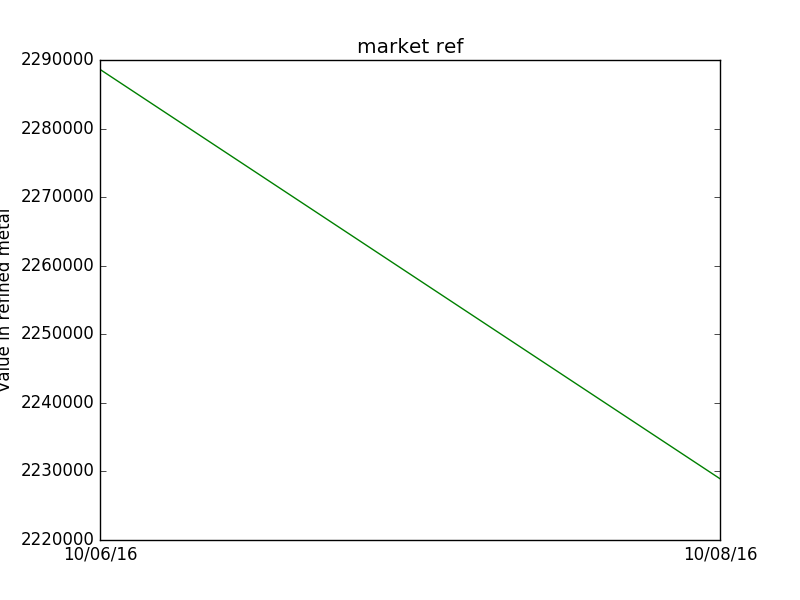
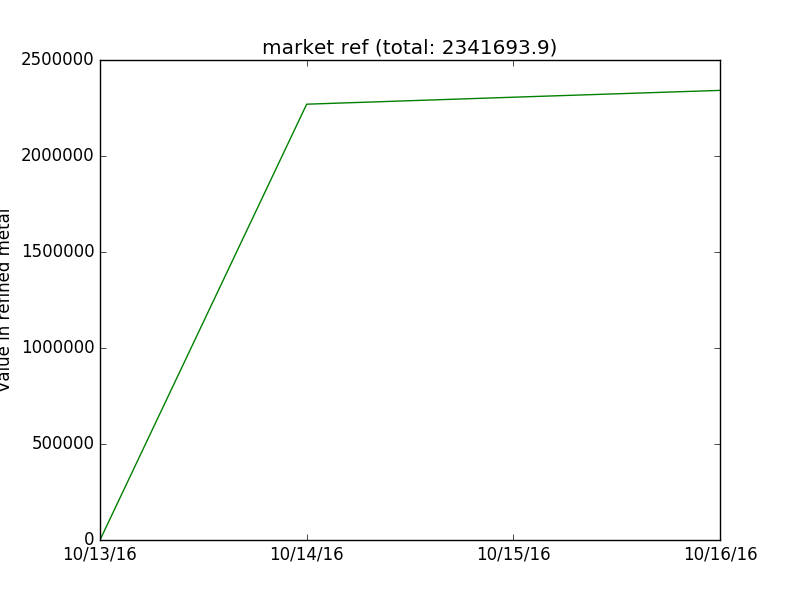
Implemented functional webserver
Webserver serves images in a nice format using
the index.html template - very simple but gets the
point across.

Also tidied up some code and... I honestly can't remember
right at this moment... oops

diff --git a/src/templates/index.html b/src/templates/index.html
@@ -1,0 +1,28 @@
+<!DOCTYPE html>
+
+<html lang="en">
+<head>
+  <meta charset="utf-8">
+
+  <title>TFBots Stocks</title>
+  <meta name="description" content="TFBots Stocks">
+  <meta name="author" content="Gabriel Simmer">
+	<link rel="stylesheet" href="https://cdnjs.cloudflare.com/ajax/libs/github-fork-ribbon-css/0.2.0/gh-fork-ribbon.min.css" />
+<!--[if lt IE 9]>
+    <link rel="stylesheet" href="https://cdnjs.cloudflare.com/ajax/libs/github-fork-ribbon-css/0.2.0/gh-fork-ribbon.ie.min.css" />
+<![endif]-->
+  <link rel="stylesheet" href="{{ url_for('static', filename = 'index.css') }}">
+
+</head>
+
+<body>
+	<a class="github-fork-ribbon" href="https://github.com/gmemstr/TFBots" title="Fork me on GitHub">Fork me on GitHub</a>
+	<h1>Trading Bot Backpack Values</h1>
+	<p>This project is still in development (especially the webserver
+	stuff). All prices are in raw metal and fetched from backpack.tf at 9PM
+	every day.</p>
+	<img src="{{ url_for('FetchGraph', site = 'market') }}">
+	<img src="{{ url_for('FetchGraph', site = 'scrap') }}">
+	<img src="{{ url_for('FetchGraph', site = 'stn') }}">
+</body>
+</html>

diff --git a/src/static/index.css b/src/static/index.css
@@ -1,0 +1,3 @@
+@import url('https://fonts.googleapis.com/css?family=Lato');
+
+body { margin: 0; padding: 0; font-family: "Lato", sans-serif; }

diff --git a/src/Graph.py b/src/Graph.py
@@ -5,20 +5,20 @@ import sys
 with open("json/cache.json") as cache_file:
 	cache_json = json.load(cache_file)
 
-def GraphStocks(site="scrap"):
+def GraphStocks(site):
 	plt.figure(1)
 	plt.clf()
 	history = []
 	prices = []
 	i = 0
 	for time in sorted(cache_json):
-		# print("Result found at " + time)
+		print("Result found at " + time)
 		history.append(time)
 		prices.append(cache_json[time][site])
 		i = i + 1
 	
 	plt.ylabel('Value in refined metal')
-	plt.title(site + " ref"	)
+	plt.title(site + " ref (total: " + str(prices[i - 1]) + ")")
 	x = range(i)
 	plt.xticks(x,history)
 	plt.plot(x,prices,"g")

diff --git a/src/Webserver.py b/src/Webserver.py
@@ -1,0 +1,20 @@
+from flask import Flask, render_template, send_from_directory
+import Calculate
+
+import threading
+
+from os import environ
+app = Flask(__name__)
+
+@app.route('/')
+def ServeIndex():
+	return render_template("index.html")
+
+@app.route('/graphs/<site>')
+def FetchGraph(site):
+	return send_from_directory('graphs', site + ".png")
+
+if __name__ == '__main__':
+
+	app.run()
+	# app.run(host='0.0.0.0') # Make server purblicly visible

diff --git a/src/Calculate.py b/src/Calculate.py
@@ -3,6 +3,7 @@ import xml.etree.ElementTree as ET
 import json
 import time
 import threading
+import Graph
 
 def Calculate():
 	res_string = ""
@@ -29,6 +30,7 @@ def Calculate():
 		res_string = res_string + "\n" + site + "'s value: " + str(round(bots_price, 2))
 		
 		stocks[site] = round(bots_price, 2)
+		Graph.GraphStocks(site)
 		
 	Cache(stocks)
 	return res_string
